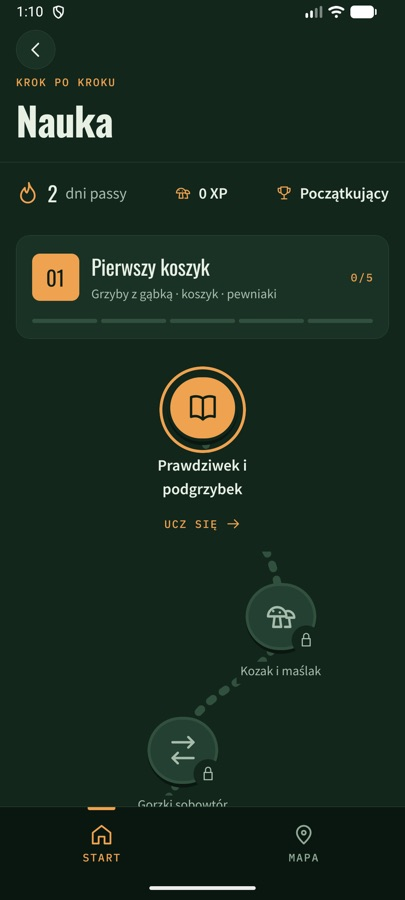
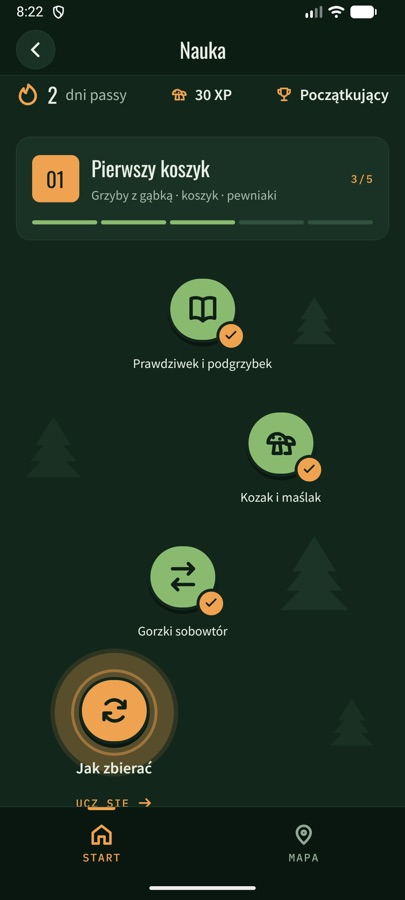
docs: describe the 2026-11-22 changes in README and CLAUDE.md, refresh the learning screenshot

diff --git a/CLAUDE.md b/CLAUDE.md
@@ -35,7 +35,7 @@ Treść zadania jest najważniejszym punktem odniesienia przy każdej decyzji.
 - Czytelne nazwy zamiast komentarzy; komentarz tylko, gdy wyjaśnia „dlaczego”.
 - TypeScript strict, zero `any`.
 - Style tylko przez tokeny z `src/theme` (kolory, odstępy, typografia, promienie, ruch) – żadnych „magicznych” wartości w komponentach.
-- Wygląd „las”: domyślnie ciemna zieleń na każdym telefonie, niezależnie od jego ustawień (`useTheme` zwraca `palette.dark`, `app.json`: `dark`), akcent w kolorze kurki; proste nagłówki i ciemnozielony pasek zakładek; Oswald (nagłówki), Source Sans Pro (treść), kursywa Fraunces (łacina), IBM Plex Mono (etykiety), umiarkowane promienie. Unikaj szablonowego wyglądu (pigułki, duże promienie, generyczne palety). Wybór z wielu opcji – krok po kroku w `BottomSheet`, nie wielkie panele.
+- Wygląd „las”: domyślnie ciemna zieleń na każdym telefonie, niezależnie od jego ustawień (`useTheme` zwraca `palette.dark`, `app.json`: `dark`), akcent w kolorze kurki; proste nagłówki i ciemnozielony pasek zakładek; Oswald (nagłówki), Source Sans Pro (treść), kursywa Fraunces (łacina), IBM Plex Mono (etykiety), umiarkowane promienie. Unikaj szablonowego wyglądu (pigułki, duże promienie, generyczne palety, rozmyte poświaty i „świetliki” – autor uznał je za AI slop). Wybór z wielu opcji – krok po kroku w `BottomSheet` (ma wysokość treści, maks. 86% ekranu), nie wielkie panele. Pytanie przed nieodwracalną akcją – `ConfirmDialog` (`src/components/ConfirmDialog.tsx`), nie systemowy `Alert`.
 - Kolory: `accent` tylko na tekst i cienkie linie na tle strony, `glow` + `onGlow` na wypełnienia i elementy na ciemnych powierzchniach. Kontrast: min. 4,5:1 dla tekstu, 3:1 dla grafiki. Jasna paleta w `colors.ts` jest teraz nieużywana – to zapas na ewentualny przełącznik.
 - Wszystko klikalne przez `PressableScale` (sprężyna + haptyka); zmiany stanu animowane (Reanimated), nie skokowe. Wyjątek: pasek zakładek jest stale na ekranie, więc rusza się spokojnie – `withTiming`, bez sprężyn i bez uginania (sprężyny były tam dla autora zbyt rozbujane).
 - Wszystko, co może zawieść (lokalizacja, czujniki, sieć, baza, uprawnienia), ma obsługę błędu i stan zastępczy – aplikacja nigdy się nie crashuje.
@@ -78,8 +78,8 @@ Wejście aplikacji: `index.ts` (sprawdza moduły natywne, potem `expo-router/ent
 - Etap 1 – Test 3D ✅ → porzucony (proceduralne modele wyglądały zbyt słabo – zamiast nich zdjęcia)
 - Etap 2 – Dane 26 gatunków (cechy, sezony, sobowtóry, zdjęcia na wolnej licencji) ✅
 - Etap 3 – Atlas: karty, kategorie, wyszukiwarka, klucz do oznaczania; ekran gatunku (zegar sezonu, sobowtóry z alertem, suwak porównania) ✅
-- Etap 4 – Odblokowywanie zdjęciem: zaimplementowane; oczekuje testu w Expo Go i oceny wyglądu
-- Etap 5 – Nauka: przebudowana 2026-11-21 na lekcje w stylu Duolingo; lekcje 1–3 sprawdzone na emulatorze, test etapu jeszcze nie
+- Etap 4 – Odblokowywanie zdjęciem: przebudowane 2026-11-22 (aparat jednym dotknięciem, lista gatunków z miniaturami, opcjonalna waga/miejsce/opis z edycją); sprawdzone na emulatorze
+- Etap 5 – Nauka: przebudowana 2026-11-21 na lekcje w stylu Duolingo, ścieżka dopracowana 2026-11-22; lekcje 1–3 sprawdzone na emulatorze, test etapu jeszcze nie
 - Etap 6 – Mapa: miejscówki, parkowanie, kierunek/odległość do auta, ostrzeżenie o zachodzie, obsługa GPS — zaimplementowane; bez natywnego testu UI
 - Etap 7 – Źródła i szlif: panel źródeł, przegląd błędów i testy regresji zaimplementowane; weryfikacja treści i testy natywne nadal otwarte
 - Etap 8 – Indeks grzybowy 1–10 i pogoda: prognoza na 3 dni z pamięcią offline zaimplementowana; test natywnego UI otwarty
@@ -95,39 +95,50 @@ npm run format          # Prettier – formatowanie wszystkich plików
 npm test                # testy jednostkowe czystych funkcji (gdy dojdą)
 ```
 
-## Stan projektu (2026-11-21)
+## Stan projektu (2026-11-22)
 
-- Gotowe: etapy 0–8 i przebudowa wyglądu, wszystko w commitach na `main` (etapy 4–8 zacommitowane 2026-11-21 jako jeden commit). Repo nie ma zdalnego – GitHub tylko na prośbę autora.
+- Gotowe: etapy 0–8 i przebudowa wyglądu, wszystko w commitach na `main` (etapy 4–8 zacommitowane 2026-11-21 jako jeden commit, poprawki z 2026-11-22 w osobnych commitach). Repo nie ma zdalnego – GitHub tylko na prośbę autora. Autor chce budować APK przez expo.dev + GitHub: potrzebny adres repo i ID projektu Expo (`extra.eas.projectId`), push tylko na wyraźne polecenie.
 - Start w Expo Go: błąd `Cannot find native module 'ExpoSQLite'` przy pierwszym `npx expo start` + `a` naprawiony 2026-11-21 (`index.ts` + `src/features/startup`, opis w `docs/expo-startup-investigation.md`). Pierwszy start nie wypisuje już ostrzeżeń routera ani `expo-notifications`.
 - Etap 4: aparat/galeria, ręczny wybór, kontrola cech groźnych sobowtórów, zapis zdjęć w dokumentach aplikacji i SQLite, licznik unikalnych gatunków, oznaczenia kart, zdjęcia na stronie gatunku.
-- Nauka (2026-11-21): `src/features/learn/course.ts` (5 etapów × 4 lekcje + test), `exercises.ts` (karty i pytania; tylko o tym, co już było), `lessonSession.ts` (czysty reducer: błędne pytanie wraca na koniec z przestawionymi odpowiedziami), `useLesson.ts` (dźwięki, haptyka, zapis). Zasady grzybiarza z GIS i Lasów Państwowych w `src/data/fieldRules.ts`. Ekran lekcji `src/app/lesson/[id].tsx` leży poza zakładkami (bez paska). Migracja 9 czyści stary postęp kursu, dodaje `mistakes` i `app_settings` (przełącznik dźwięków). Dźwięki z `scripts/generate-sounds.py`. Test zaliczony przy ≤20% błędów za pierwszym razem.
+- Nauka (2026-11-21): plan kursu w `src/data/courseStages.ts` (5 etapów × 4 lekcje + test), `src/features/learn/course.ts` (stałe i `courseLesson`), pytania w `lessonExercises.ts`, `speciesQuestions.ts`, `lookalikeQuestions.ts`, `ruleExercises.ts`, `exerciseHelpers.ts` (`exercises.ts` ma tylko typy; pytania tylko o tym, co już było), `lessonSession.ts` (czysty reducer: błędne pytanie wraca na koniec z przestawionymi odpowiedziami), `useLesson.ts` (dźwięki, haptyka, zapis). Zasady grzybiarza z GIS i Lasów Państwowych w `src/data/fieldRules.ts`. Ekran lekcji `src/app/lesson/[id].tsx` leży poza zakładkami (bez paska). Migracja 9 czyści stary postęp kursu, dodaje `mistakes` i `app_settings` (przełącznik dźwięków). Dźwięki z `scripts/generate-sounds.py`. Test zaliczony przy ≤20% błędów za pierwszym razem.
 - Etap 5 (stara wersja, zastąpiona): codzienny gatunek, quiz cech/nazw łacińskich, sobowtóry, losowane rundy po 5 pytań z wyjaśnieniami, najlepszy wynik i liczba rund w SQLite. Migracja 2 dodaje `learning_sessions`, nie zmienia tabel znalezisk. Identyfikator rundy chroni przed podwójnym naliczaniem po ponowieniu zapisu.
 - Etap 6: mapa Google/Apple w Expo Go, dodawanie/edycja/usuwanie miejscówek, zapis auta z potwierdzeniem zastąpienia, współrzędne offline, odległość/azymut oraz true-heading kompas z fallbackiem. GPS automatycznie po otwarciu mapy za zgodą użytkownika; timeout, odmowa zgody, błędy i restart śledzenia obsłużone. Zapis GPS wymaga <=60 s i dokładności <=100 m. Ostrzeżenie o zachodzie z SunCalc działa tylko przy otwartej mapie, bez powiadomień w tle.
 - UI: mapa jako notatnik terenowy, ciemna mapa, tarcza kompasu, lista punktów, panel dodawania. Atlas ma filtr „Moje odkrycia”, mocniejsze wyróżnienie odkrytych kart i licznik obserwacji.
 - Etap 7: panel „O atlasie” z materiałami, 26 autorami/licencjami zdjęć i fontami; poprawki opóźnionych odczytów GPS, wygasania kompasu, kolejkowanych kliknięć quizu, odzyskiwania zdjęcia i niedostępnego pliku. README odpowiada aktualnym funkcjom.
 - Etap 8: Open-Meteo, prognoza 3 dni (temperatura, opady, prawdopodobieństwo, wiatr), automatyczne pobieranie na mapie i ręczne odświeżanie ikoną; współrzędne zaokrąglone do 2 miejsc. Migracja 3 dodaje weather_cache (10 obszarów), starsze niż 6 h lub poprzedni dzień dane oznaczone jako nieaktualne. Timeout, anulowanie, błędy sieci/zapisu oraz zmiana miejsca obsłużone. Orientacyjny indeks 1–10 ocenia warunki na podstawie poprzednich 7 dni. Bezpłatne API niekomercyjne; warunki opisane w README.
 - Szlif UI: kompaktowy nagłówek lasu, uproszczona góra Atlasu, zdjęcia do krawędzi kart, siatka 1–3 kolumn zależna od szerokości i skali fontu; treść maks. 720 px, spokojniejsze przyciski pomocnicze i cele dotykowe 48 px. Nauka, pogoda i powrót do auta mają ujednoliconą hierarchię. Zmiany wymagają wizualnej weryfikacji na urządzeniu.
-- Następny krok: natywna weryfikacja dotychczasowych funkcji, pozostałe TODO treści i ewentualne bonusy, gdy podstawy zostaną ocenione wizualnie. Użytkownik daje swobodę pracy z maksymalnie dwoma subagentami i nie chce zadań ani odpytywania.
-- Test wizualny 2026-11-21 (emulator, ADB działa): pierwszy start, ekran Start, ekran awaryjny startu. Pozostałe ekrany po przebudowie 2026-11-15 nadal czekają na przegląd na urządzeniu.
+- Następny krok: test etapu Nauki na urządzeniu, repo na GitHubie i build APK przez expo.dev (gdy autor poda adres repo i ID projektu), wpis o fizycznym urządzeniu w README. Użytkownik daje swobodę pracy z maksymalnie dwoma subagentami i nie chce zadań ani odpytywania; prosi o oszczędne korzystanie z limitu (bez długiego klikania po emulatorze).
+- Test wizualny: 2026-11-21 pierwszy start, Start i ekran awaryjny; 2026-11-22 Start, Nauka (ścieżka, okno przerwania), ustawienia, panel miejsc na mapie, zapis i edycja znaleziska. Atlas (po refaktorze), klucz, porównanie i rozwinięta prognoza nie były oglądane na nowo.
 - Pod Etap 4 są już: tabela `finds` (`src/db/migrations.ts`), wielokrotnego użytku `BottomSheet`, zainstalowane `expo-image-picker` i `expo-file-system`.
+- Sesja 2026-11-22 (wszystko sprawdzone zrzutami z emulatora):
+  - Start: karta Nauki z postępem i XP; „grzyb dnia” ukryty (rozmycie + „?”), odkrywany dotknięciem, pamiętany do północy w `app_settings` (`src/features/learn/dailyReveal.ts`); ikona ustawień bez ramki; „Twoje odkrycia” bez strzałki.
+  - Zdjęcia: `useQuickPhoto` otwiera aparat od razu (Start, karta gatunku); `SpeciesPicker` to lista z miniaturami; w kroku gatunku zdjęcie jest małe; w `FindReview` miniatura z atlasu, przy groźnym sobowtórze krótkie ostrzeżenie i jedno potwierdzenie (zamiast osobnego dla każdej cechy — decyzja autora).
+  - Szczegóły znaleziska: migracja 10 dodaje `weight_grams`, `latitude`, `longitude` (kolumna `note` była); wspólny `FindDetailsForm` przy zapisie i w `EditFindSheet`; logika w `findDraft.ts`, pozycja w `currentPlace.ts` (`Accuracy.High` + `mayShowUserSettingsDialog: false`).
+  - Nauka: ścieżka bez linii, ukończone lekcje zielone (`season`) ze złotym ptaszkiem, bieżąca z mrugającą obręczą i falami (`ActivePulse`), wszystkie dalsze etapy widoczne i przygaszone (`TrailFog`), płaskie drzewa inne dla każdego etapu (`TrailBackdrop`). Autor odrzucił poziomice, kreskowanie, mgłę i świetliki.
+  - Mapa: panel miejsc w `SavedPlacesSheet` z „+” do dodania miejscówki i krzyżykiem przy aucie; mniej podpowiedzi; usuwanie przez `ConfirmDialog`.
+  - Ustawienia: usunięty poziom doświadczenia (niczego nie zmieniał; zostaje tylko w onboardingu), krótki napis o powiadomieniach, przełączniki w kolorach aplikacji.
+  - Refaktor (subagenci): podzielone pliki logiki Nauki i alertów pogodowych oraz najdłuższe komponenty UI (pogoda, onboarding, `Screen`, atlas). Fakty w `src/data` sprawdzone przez agenta ze źródłami – bez błędów; sezon krowiaka potwierdzony.
+- Pozycja jednorazowa: `getCurrentPositionAsync` z `Accuracy.Balanced` wywołuje systemowe okno Google „Location Accuracy” i bez zgody zwraca angielski błąd — używaj `Accuracy.High` i `mayShowUserSettingsDialog: false`.
 - Kompas korzysta z `expo-location.watchHeadingAsync`; nieużywane `zustand`, `expo-sensors` i `@types/suncalc` usunięto 2026-11-21.
 
 Otwarte sprawy:
 
 - Odzyskiwanie zdjęcia po odtworzeniu aplikacji jest teraz automatyczne; przetestowano scenariusz na atrapach, bez fizycznego aparatu.
 
-- `src/data/species.ts`: miesiące krowiaka mają `TODO: verify`.
+- Pliki powyżej ~150 linii: `NativeFieldMap.tsx` (206), `src/app/(tabs)/map.tsx` (202), `AddFindSheet.tsx` (177), `MushroomIndexDialog.tsx` (157), `BottomSheet.tsx` (152).
+- Reset profilu w `OnboardingProvider` nadal używa `Alert` (tylko w trybie deweloperskim).
 - Panel źródeł jest dostępny w Atlasie. Metadane zdjęć są kompletne; testy danych nie stanowią merytorycznej weryfikacji całego atlasu.
 - Haptyka nie jest potwierdzona na fizycznym telefonie, a emulator jej nie odda.
 - README przepisane 2026-11-21 ze zrzutami (`docs/screenshots`); wpis o fizycznym urządzeniu ma `TODO` – potwierdza autor.
 - 2026-11-19 autor podał, że ma 3 dni do oddania. Priorytet: stabilność, dopracowanie istniejących funkcji i natywna weryfikacja.
-- `npm test`: 119 testów (2026-11-21, po przebudowie Nauki) – kolekcja, pytania, ścieżka nauki, migracje/statystyki, miejsca, geometria, światło dzienne, GPS, pogoda, trasy i start w Expo Go. Testy statystyk używają prawdziwego SQLite w pamięci przez `node:sqlite` (Node 22.13+; na tej maszynie Node 26). Testy kolekcji nadal używają atrap modułów natywnych.
+- `npm test`: 124 testy (2026-11-22; nowe w `find-details.test.cjs`: formularz szczegółów i migracja 10) – kolekcja, pytania, ścieżka nauki, migracje/statystyki, miejsca, geometria, światło dzienne, GPS, pogoda, trasy i start w Expo Go. Testy statystyk używają prawdziwego SQLite w pamięci przez `node:sqlite` (Node 22.13+; na tej maszynie Node 26). Testy kolekcji nadal używają atrap modułów natywnych.
 
 ## Uruchamianie (Mac autora)
 
 - `ANDROID_HOME` jest w `~/.zshrc`, więc w nowym terminalu `a` w `npx expo start` sam włącza emulator (AVD `Medium_Phone_API_37.0`). Serwer uruchomiony przed tą zmianą tego nie umie.
 - Powłoka agenta może nie wczytać `~/.zshrc`: wtedy `source ~/.nvm/nvm.sh` przed `npx`/`npm` i pełna ścieżka `~/Library/Android/sdk/platform-tools/adb`.
 - Otwieranie apki przez adb: `adb shell am force-stop host.exp.exponent`, potem `adb shell am start -a android.intent.action.VIEW -d "<adres exp:// z terminala>"`. Konkretny ekran: `<adres>/--/species/amanita-phalloides`.
+- Wpisywanie przez `adb shell input text` bez aktywnego pola trafia do Expo Go: dwa „r” przeładowują apkę. Nie chowaj klawiatury klawiszem wstecz – przy klawiaturze sprzętowej emulatora zamyka on panel.
 - Zrzut ekranu: `adb exec-out screencap -p > plik.png`. Po otwarciu apki poczekaj na załadowanie (kilkanaście sekund po przeładowaniu), zanim wyślesz kliknięcia lub zrobisz zrzut – inaczej klawisz wstecz wychodzi z apki, a zdjęcia są jeszcze puste.
 
 Pułapki:

diff --git a/README.md b/README.md
@@ -21,7 +21,7 @@ Kieszonkowy przewodnik grzybiarza: atlas 26 polskich gatunków z ostrzeżeniami 
 
 - **Przygotowana głównie pod:** Android.
 - **Testowana na fizycznym urządzeniu:** TODO – do uzupełnienia przez autora przed oddaniem.
-- **Emulator:** Android Studio, Medium Phone (API 37), Expo Go 58.0.5 – wszystkie ekrany przeklikane 2026-11-21, w tym zdjęcie z aparatu, zapis znaleziska, mapa i lekcje.
+- **Emulator:** Android Studio, Medium Phone (API 37), Expo Go 58.0.5 – wszystkie ekrany przeklikane 2026-11-21, w tym zdjęcie z aparatu, zapis znaleziska, mapa i lekcje; zmiany z 2026-11-22 (Start, ścieżka nauki, panel miejsc, szczegóły znaleziska) sprawdzone na emulatorze tego dnia.
 - **iOS:** nie był testowany.
 
 ## Uruchomienie
@@ -52,17 +52,21 @@ Mapa Google na Androidzie poza Expo Go wymaga klucza „Maps SDK for Android” 
 
 ## Funkcje
 
+**Start** – wejście do atlasu i nauki (z postępem i XP), „grzyb dnia” ukryty pod rozmytym zdjęciem, który odkrywa się dotknięciem, oraz ostatnie własne znaleziska. Przycisk zdjęcia od razu otwiera aparat.
+
 **Atlas** – 26 gatunków podzielonych na jadalne, niejadalne, trujące i śmiertelnie trujące; zdjęcia na wolnych licencjach, wyszukiwarka bez polskich znaków („kozlarz” znajdzie koźlarza), filtry „Rośnie teraz” i „Moje odkrycia”.
 
 **Klucz do oznaczania** – zamiast ściany filtrów pytania po kolei: co jest pod kapeluszem, kolor, pierścień, pochwa, zmiana barwy miąższu, siedlisko. Każda odpowiedź ma ilustrację SVG i liczbę gatunków, które zostaną; odpowiedzi prowadzące donikąd są wyszarzone.
 
 **Karta gatunku** – opis, cechy rozpoznawcze, kalendarz sezonu, objawy zatrucia i alert o groźnych sobowtórach. Porównanie z sobowtórem pokazuje oba zdjęcia pod przeciąganym suwakiem i tabelę różnic; śmiertelnie trujący sobowtór jest oznaczony kolorem i haptyką.
 
-**Rejestr znalezisk** – zdjęcie z aparatu lub galerii → ręczny wybór gatunku → przy gatunkach z groźnymi sobowtórami potwierdzenie każdej cechy odróżniającej → zapis. Zdjęcie jest dowodem znaleziska, nie jest rozpoznawane automatycznie, a zapis nie potwierdza jadalności. Zdjęcia zostają w pamięci telefonu i można je usunąć.
+**Rejestr znalezisk** – jedno dotknięcie na Starcie lub na karcie gatunku otwiera aparat (galeria jest dostępna z ekranu kolekcji) → wybór gatunku z listy z miniaturami z atlasu → sprawdzenie: Twoje zdjęcie obok zdjęcia wzorcowego, a przy groźnym sobowtórze krótkie ostrzeżenie, cechy odróżniające i jedno potwierdzenie porównania → zapis. Opcjonalnie waga, miejsce z GPS (jednym dotknięciem) i opis; wszystko można później edytować na karcie gatunku. Zdjęcie jest dowodem znaleziska, nie jest rozpoznawane automatycznie, a zapis nie potwierdza jadalności. Zdjęcia zostają w pamięci telefonu i można je usunąć.
 
-**Nauka** – 5 etapów po 4 lekcje i test etapu na końcu (ostatni to egzamin z całości). Lekcja ma około 7 kart: nowy gatunek albo zasada grzybiarza (np. koszyk zamiast reklamówki, wykręcanie zamiast odcinania, co robić przy podejrzeniu zatrucia), potem różne typy pytań – zdjęcie → nazwa, nazwa → zdjęcie, „do koszyka czy zostawiam”, para sobowtórów, sytuacje z lasu. Pytania dotyczą tylko tego, co już było. Bez „żyć”: błędna odpowiedź pokazuje wyjaśnienie i wraca na końcu lekcji. Pasek postępu, seria poprawnych odpowiedzi, XP, rangi, dzienna passa, dźwięki (do wyłączenia w ustawieniach) i haptyka.
+**Nauka** – 5 etapów po 4 lekcje i test etapu na końcu (ostatni to egzamin z całości). Lekcja ma około 7 kart: nowy gatunek albo zasada grzybiarza (np. koszyk zamiast reklamówki, wykręcanie zamiast odcinania, co robić przy podejrzeniu zatrucia), potem różne typy pytań – zdjęcie → nazwa, nazwa → zdjęcie, „do koszyka czy zostawiam”, para sobowtórów, sytuacje z lasu. Pytania dotyczą tylko tego, co już było. Bez „żyć”: błędna odpowiedź pokazuje wyjaśnienie i wraca na końcu lekcji. Pasek postępu, seria poprawnych odpowiedzi, XP, rangi, dzienna passa, dźwięki (do wyłączenia w ustawieniach) i haptyka. Ścieżka pokazuje wszystkie etapy: ukończone lekcje na zielono, bieżąca pulsuje, dalsze etapy są przygaszone, a każdy etap ma własne leśne tło. Przerwanie lekcji potwierdza się we własnym oknie aplikacji.
 
-**Mapa** – prywatne miejscówki (z GPS albo przytrzymaniem mapy) z notatkami, zapis miejsca parkowania i powrót do auta: odległość i kierunek z kompasem, ostrzeżenie przed zachodem słońca. Prognoza na 3 dni (Open-Meteo) z pamięcią offline i orientacyjny „indeks grzybowy” 1–10 liczony z opadów i temperatur ostatniego tygodnia.
+**Ustawienia** – dźwięki w lekcjach, powiadomienia o korzystnych warunkach (tylko w buildzie, nie w Expo Go) oraz źródła i licencje.
+
+**Mapa** – prywatne miejscówki (z GPS albo przytrzymaniem mapy) z notatkami, zapis miejsca parkowania i powrót do auta: odległość i kierunek z kompasem, ostrzeżenie przed zachodem słońca. Panel zapisanych miejsc ma przycisk „+” do dodania miejscówki, a auto i miejscówki usuwa się po potwierdzeniu we własnym oknie. Prognoza na 3 dni (Open-Meteo) z pamięcią offline i orientacyjny „indeks grzybowy” 1–10 liczony z opadów i temperatur ostatniego tygodnia.
 
 ## Decyzje techniczne
 
@@ -70,7 +74,8 @@ Mapa Google na Androidzie poza Expo Go wymaga klucza „Maps SDK for Android” 
 - **Odporność na błędy:** GPS, aparat, sieć, baza i uprawnienia mają obsługę błędów i stany zastępcze; globalny `ErrorBoundary` zamiast crasha.
 - **Start w Expo Go:** Expo Go 58 na Androidzie daje moduły natywne nowego typu (m.in. SQLite) tylko pierwszemu silnikowi JS w procesie – gdy Expo Go ma już otwarty inny projekt, zwykły start kończy się błędem `Cannot find native module 'ExpoSQLite'`. Wejście `index.ts` sprawdza moduły, zanim wczyta router i bazę, i w razie potrzeby raz przeładowuje własny silnik JS. Opis: [docs/expo-startup-investigation.md](docs/expo-startup-investigation.md).
 - **Ruch i dotyk:** Reanimated 4 (sprężyny, layout animations, CSS transitions) i Gesture Handler 3; każdy przycisk reaguje sprężyną i haptyką (`expo-haptics`).
-- **Dane o grzybach:** pisane własnymi słowami na podstawie źródeł poniżej, sprawdzane z nimi; niepewne fakty oznaczone w kodzie `TODO: verify`.
+- **Dane o grzybach:** pisane własnymi słowami na podstawie źródeł poniżej i sprawdzane z nimi; niepewny fakt oznaczamy w kodzie `TODO: verify` (obecnie żadnego takiego nie ma – ostatni, sezon krowiaka, potwierdzono 2026-11-22).
+- **Okna i panele:** wybory krok po kroku w panelu od dołu, który ma wysokość swojej treści; pytania przed nieodwracalną akcją we wspólnym `ConfirmDialog` zamiast systemowego `Alert`.
 - **Wygląd:** ciemna leśna zieleń z akcentem koloru kurki, Oswald + Source Sans Pro, łacina kursywą Fraunces, etykiety IBM Plex Mono.
 
 ## Stack
@@ -108,6 +113,7 @@ CI (GitHub Actions) uruchamia lint, typecheck i testy przy każdym pushu.
 - Alerty o dobrych warunkach w tle działają tylko w development/release buildzie, nie w Expo Go.
 - Jeśli przy pytaniu o aparat wybierzesz „Tylko tym razem” i aparat zostanie otwarty dłużej niż minutę, Android może zamknąć Expo Go i zdjęcie przepada – przy „Podczas używania aplikacji” problem nie występuje.
 - Indeks grzybowy to heurystyka aplikacji, nie prognoza wysypu.
+- Miejsce znaleziska to pozycja telefonu w chwili dotknięcia „Dodaj miejsce” (GPS, bez trybu dokładności Google); lokalizacja zapisana w samym zdjęciu nie jest odczytywana.
 
 ## Źródła i licencje
 
@@ -119,7 +125,7 @@ CI (GitHub Actions) uruchamia lint, typecheck i testy przy każdym pushu.
 - kalendarzy grzybiarza stacji sanitarno-epidemiologicznych ([gov.pl](https://www.gov.pl/web/psse-wabrzezno/w-lesie-grzybow-coraz-wiecej)).
 - zasady grzybiarza w lekcjach: Główny Inspektorat Sanitarny – [„Bezpieczne grzybobranie”](https://www.gov.pl/web/gis/bezpieczne-grzybobranie) i [poradnik dla miłośników zbierania grzybów](https://www.gov.pl/web/gis/dla-milosnikow-zbierania-grzybow2); Lasy Państwowe – [zakazy wstępu do lasu](https://www.lasy.gov.pl/pl/informacje/zakazy-wstepu-do-lasow).
 
-Niepewne fakty są oznaczone w kodzie jako `TODO: verify`.
+Niepewne fakty oznaczamy w kodzie jako `TODO: verify`; obecnie w danych nie ma takich oznaczeń.
 
 **Zdjęcia gatunków** pochodzą z [Wikimedia Commons](https://commons.wikimedia.org), są na licencjach Creative Commons i zostały zmniejszone do 800 px. Kliknij nazwę gatunku, aby zobaczyć oryginał.
 
